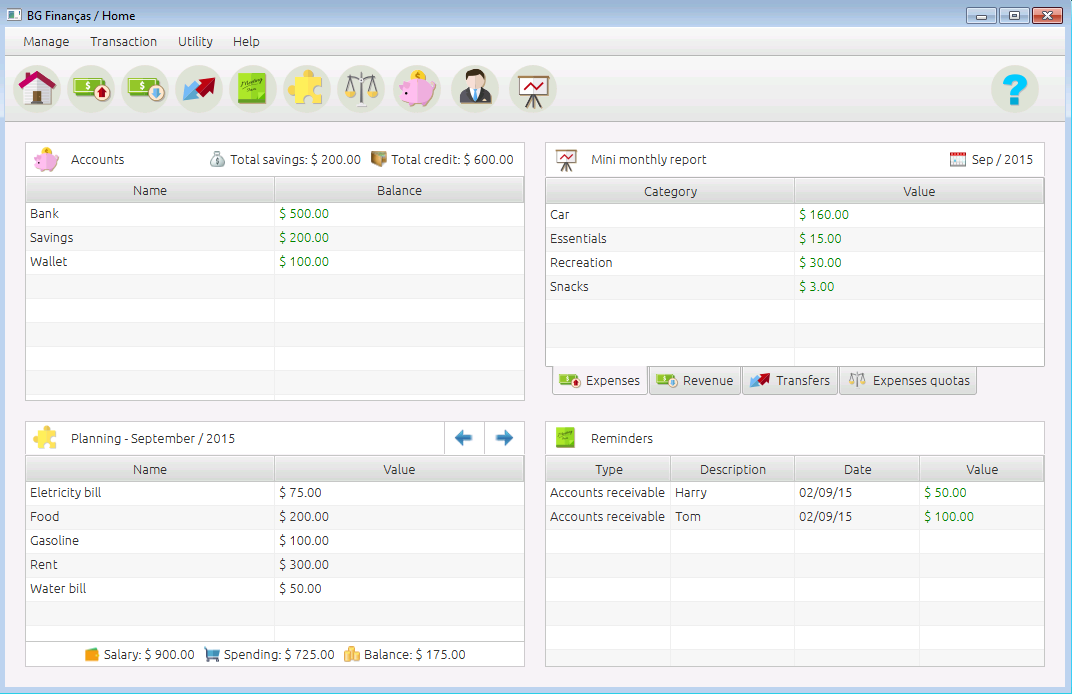
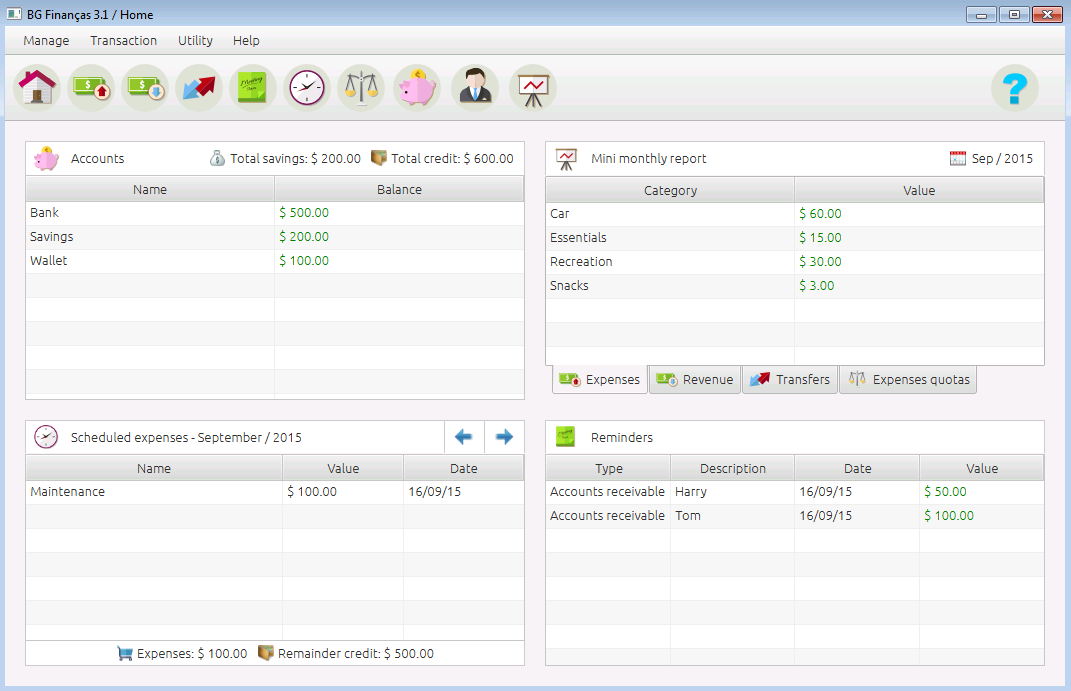
3.1

diff --git a/index.html b/index.html
@@ -22,8 +22,8 @@
                 setValor("fun02","Accounts to store money");
                 setValor("fun03","Limit specific expenses");
                 setValor("fun04","Simple and complex reports");
-                setValor("fun05","Planning divided into months");
-                setValor("fun06","Scheduler for reminders");
+                setValor("fun05","Scheduled expenses");
+                setValor("fun06","Reminders");
                 setValor("download_direto","Direct download:");
                 setValor("descricao","BG Finanças is an open source software facing you who want to control their financial lives, their focus is to use accounts to store money and launch expenses / revenues to change the balance of accounts. Relying on its planning module, reports and ability to track spending, BG Finanças will be a great ally in the management of their money.");
                 setValor("java","For the system to work you need to install <font style='font-weight:bold !important'>Java</font>.<br />Download it by clicking <a href='http://java.com/pt_BR/' target='_blank'>here</a>.");
@@ -38,14 +38,21 @@
                 setValor("fun02","Contas para armazenar dinheiro");
                 setValor("fun03","Limitar gastos especificos");
                 setValor("fun04","Relatórios simples e complexos");
-                setValor("fun05","Planejamento dividido em meses");
-                setValor("fun06","Agenda para lembretes");
+                setValor("fun05","Despesas agendadas");
+                setValor("fun06","Lembretes");
                 setValor("download_direto","Download direto:");
                 setValor("descricao","BG Finanças é um software open source voltado para você que quer controlar sua vida financeira, seu foco é usar contas para armazenar dinheiro e lançar despesas/receitas para alterar o saldo das contas. Contando com seu módulo de planejamento, relatórios e capacidade de acompanhar os gastos, BG Finanças será um grande aliado na gerência de seu dinheiro.");
                 setValor("java","Para que o sistema funcione é necessário instalar o <font style='font-weight:bold !important'>Java</font>.<br />Faça o download clicando <a href='http://java.com/pt_BR/' target='_blank'>aqui</a>.");
             }
             function setValor(campo, valor){
                 document.getElementById(campo).innerHTML = valor;
+            }
+            function abrirDownload(url){
+                var altura = 100;
+                var largura = 200;
+                var top = (screen.height/2)-altura;
+                var left = (screen.width/2)-largura;
+                window.open(url,'Download','width='+largura+',height='+altura+',top='+top+',left='+left+'');
             }
         </script>
     </head>
@@ -85,13 +92,13 @@
                             <li id="fun02">Contas para armazenar dinheiro</li>
                             <li id="fun03">Limitar gastos especificos</li>
                             <li id="fun04">Relatórios simples e complexos</li>
-                            <li id="fun05">Planejamento dividido em meses</li>
-                            <li id="fun06">Agenda para lembretes</li>
+                            <li id="fun05">Despesas agendadas</li>
+                            <li id="fun06">Lembretes</li>
                         </ul>
                         <div align="center" style="margin-left:-20px;">
                             <p id="download_direto" style="padding-bottom:5px;padding-left:18px;">Download direto:</p>
-                            <a href="https://github.com/badernageral/bgfinancas/releases/download/3.0/bgfinancas_3.0_windows.exe"><img src="windows.png" /></a>
-                            <a href="https://github.com/badernageral/bgfinancas/releases/download/3.0/bgfinancas_3.0_all.tar"><img src="outros.png" /></a>
+                            <a href="#" onclick="abrirDownload('download_windows.html');"><img src="windows.png" /></a>
+                            <a href="#" onclick="abrirDownload('download_all.html');"><img src="outros.png" /></a>
                         </div>
                     </div>
                 </div>

diff --git a/download_windows.html b/download_windows.html
@@ -1,0 +1,9 @@
+<html>
+<head>
+</head>
+<body>
+Starting download...<br>
+Click <a href="https://github.com/badernageral/bgfinancas/releases/download/3.1/bgfinancas_3.1_windows.exe">here</a> if not start.
+<iframe id="my_iframe" style="display:none;" src="https://github.com/badernageral/bgfinancas/releases/download/3.1/bgfinancas_3.1_windows.exe">
+</body>
+</html>

diff --git a/download_all.html b/download_all.html
@@ -1,0 +1,9 @@
+<html>
+<head>
+</head>
+<body>
+Starting download...<br>
+Click <a href="https://github.com/badernageral/bgfinancas/releases/download/3.1/bgfinancas_3.1_all.tar">here</a> if not start.
+<iframe id="my_iframe" style="display:none;" src="https://github.com/badernageral/bgfinancas/releases/download/3.1/bgfinancas_3.1_all.tar">
+</body>
+</html>
